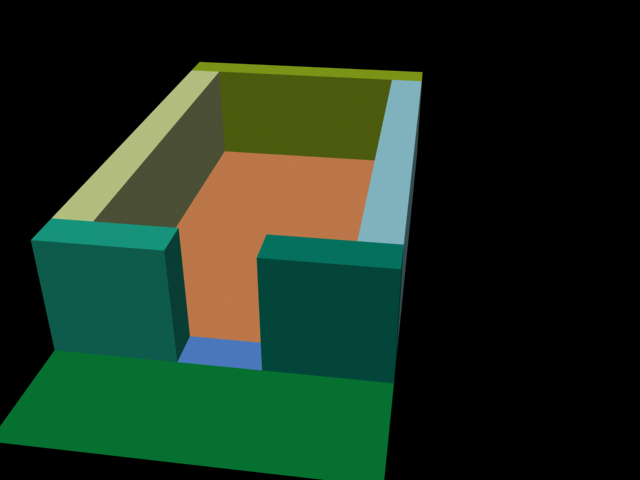
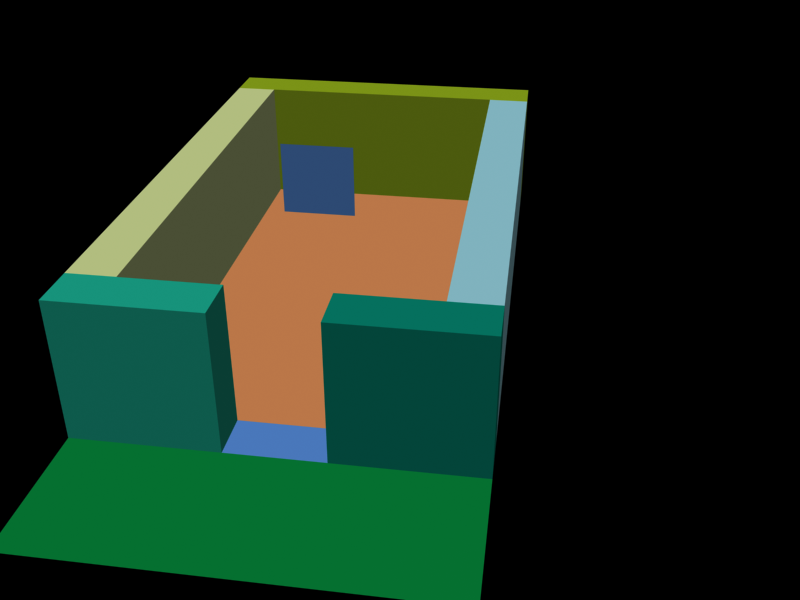
Fixed issue if render is not the same resolution as the window

Changed region(s): [[0.3438, 0.2188, 0.4688, 0.375]]

diff --git a/source/character.rb b/source/character.rb
@@ -2,7 +2,7 @@ class Character
   def initialize(window, filename)
     @window = window
     @plane_size = 32
-    @coords = [0, 0, 16]
+    @coords = [40, 216, 0]
     @sprite = Gosu::Image.new('gfx/characters/' + filename, retro: true)
     @velocity = 1.0
     @keys = @window.keys
@@ -29,7 +29,7 @@ class Character
 
     unless @keystates.keys.empty?
       last_pressed_key = @keystates.key(@keystates.values.sort.last)
-      
+
       case last_pressed_key
       when @keys["move_up"]
         vel = -vel if top.split('')[1] == '-'
@@ -54,7 +54,7 @@ class Character
   def draw
     angles = @window.camera.get_angles
     glPushMatrix
-    glTranslatef(*@coords)    
+      glTranslatef(*@coords)    
       glRotatef(angles[2], 0, 0, 1)
       glRotatef(angles[0] - 90, 1, 0, 0)
       glScalef(@plane_size, @plane_size, @plane_size)

diff --git a/source/camera.rb b/source/camera.rb
@@ -26,6 +26,8 @@ class Camera
   end
 
   def draw
-    @background.draw(0, 0, 0)
+    scale_x = @window.width / @background.width.to_f
+    scale_y = @window.height / @background.height.to_f
+    @background.draw(0, 0, 0, scale_x, scale_y)
   end
 end
